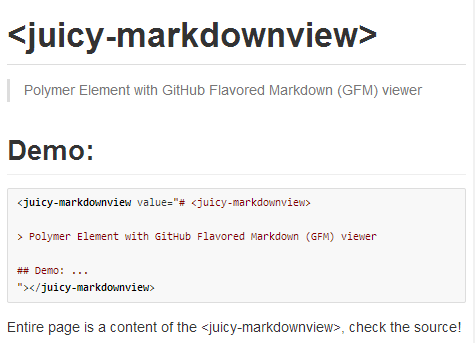
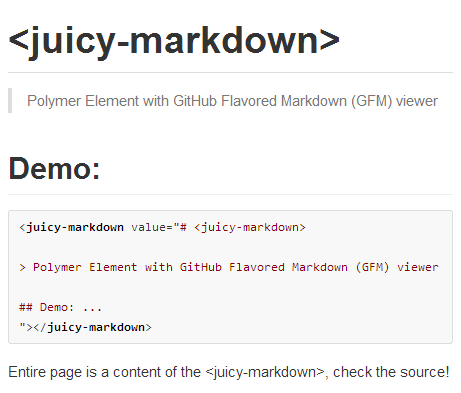
Rename juicy-markdownview to juicy-markdown

diff --git a/index.html b/index.html
@@ -2,43 +2,43 @@
 <html>
 <head>
     <meta charset="UTF-8">
-    <title>&lt;juicy-markdownview&gt;</title>
+    <title>&lt;juicy-markdown&gt;</title>
 
     <!-- Importing Web Component's Polyfill -->
     <script src="//cdn.jsdelivr.net/polymer.platform/0.3.4/platform.js"></script>
 
     <!-- Importing Custom Elements -->
-    <link rel="import" href="juicy-markdownview.html">
+    <link rel="import" href="juicy-markdown.html">
 </head>
 <body>
-<a href="https://github.com/Juicy/juicy-markdownview"><img style="position: absolute; top: 0; right: 0; border: 0; z-index: 9;" src="https://s3.amazonaws.com/github/ribbons/forkme_right_darkblue_121621.png" alt="Fork me on GitHub"></a>
+<a href="https://github.com/Juicy/juicy-markdown"><img style="position: absolute; top: 0; right: 0; border: 0; z-index: 9;" src="https://s3.amazonaws.com/github/ribbons/forkme_right_darkblue_121621.png" alt="Fork me on GitHub"></a>
 
     <!-- Using Custom Elements -->
-    <juicy-markdownview value="# &lt;juicy-markdownview&gt;
+    <juicy-markdown value="# &lt;juicy-markdown&gt;
 
 > Polymer Element with GitHub Flavored Markdown (GFM) viewer
 
 ## Demo:
 
 ```html
-<juicy-markdownview value=&quot;# &lt;juicy-markdownview&gt;
+<juicy-markdown value=&quot;# &lt;juicy-markdown&gt;
 
 > Polymer Element with GitHub Flavored Markdown (GFM) viewer
 
 ## Demo: ...
-&quot;></juicy-markdownview>
+&quot;></juicy-markdown>
 ```
-Entire page is a content of the &lt;juicy-markdownview&gt;, check the source!
+Entire page is a content of the &lt;juicy-markdown&gt;, check the source!
 
 ## Install
 
 Install the component using [Bower](http://bower.io/):
 
 ```sh
-$ bower install juicy-markdownview --save
+$ bower install juicy-markdown --save
 ```
 
-Or [download as ZIP](https://github.com/Juicy/juicy-markdownview/archive/master.zip).
+Or [download as ZIP](https://github.com/Juicy/juicy-markdown/archive/master.zip).
 
 ## Usage
 
@@ -51,7 +51,7 @@ Or [download as ZIP](https://github.com/Juicy/juicy-markdownview/archive/master.
 2. Import Custom Element:
 
     ```html
-    <link rel=&quot;import&quot; href=&quot;bower_components/juicy-markdownview/juicy-markdownview.html&quot;>
+    <link rel=&quot;import&quot; href=&quot;bower_components/juicy-markdown/juicy-markdown.html&quot;>
     ```
 
 3. Start using it!
@@ -79,7 +79,7 @@ Attribute | Options   | Default | Description
 ## History
 
 For detailed changelog, check [Releases](https://github.com/my-user/my-repo/releases).
-" ghcss></juicy-markdownview>
+" ghcss></juicy-markdown>
 
 </body>
 </html>

diff --git a/juicy-markdown.html b/juicy-markdown.html
@@ -6,7 +6,7 @@ Copyright 2014 Smörgåsbord Development. All rights reserved.
 <script src="../marked/lib/marked.js"></script>
 <script src="vendor/highlightjs/highlight.min.js"></script>
 
-<polymer-element name="juicy-markdownview" attributes="value ghcss">
+<polymer-element name="juicy-markdown" attributes="value ghcss">
 
 	<template>
 
@@ -43,7 +43,7 @@ Copyright 2014 Smörgåsbord Development. All rights reserved.
 
 	    "use strict";
 
-	    Polymer('juicy-markdownview', {
+	    Polymer('juicy-markdown', {
 	    	value: "",
 	    	options: {},
 	    	ghcss: false,
